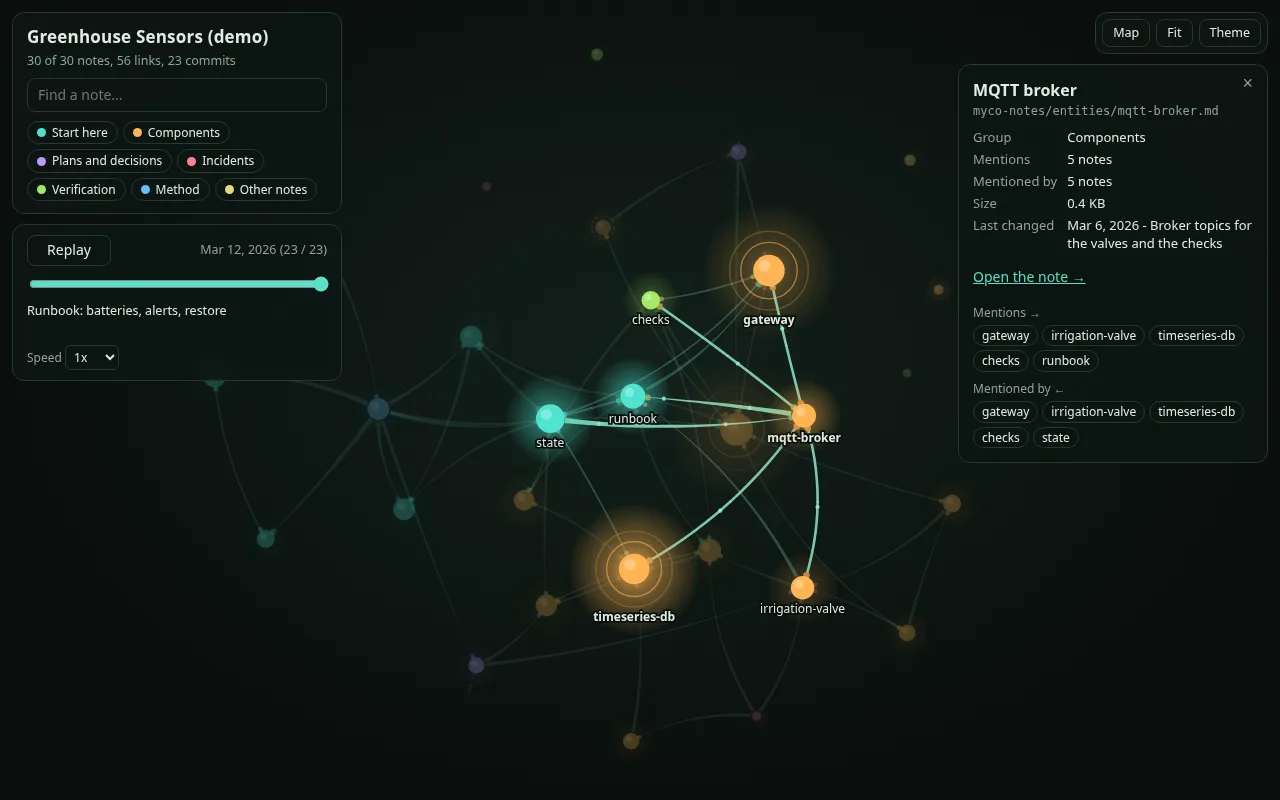
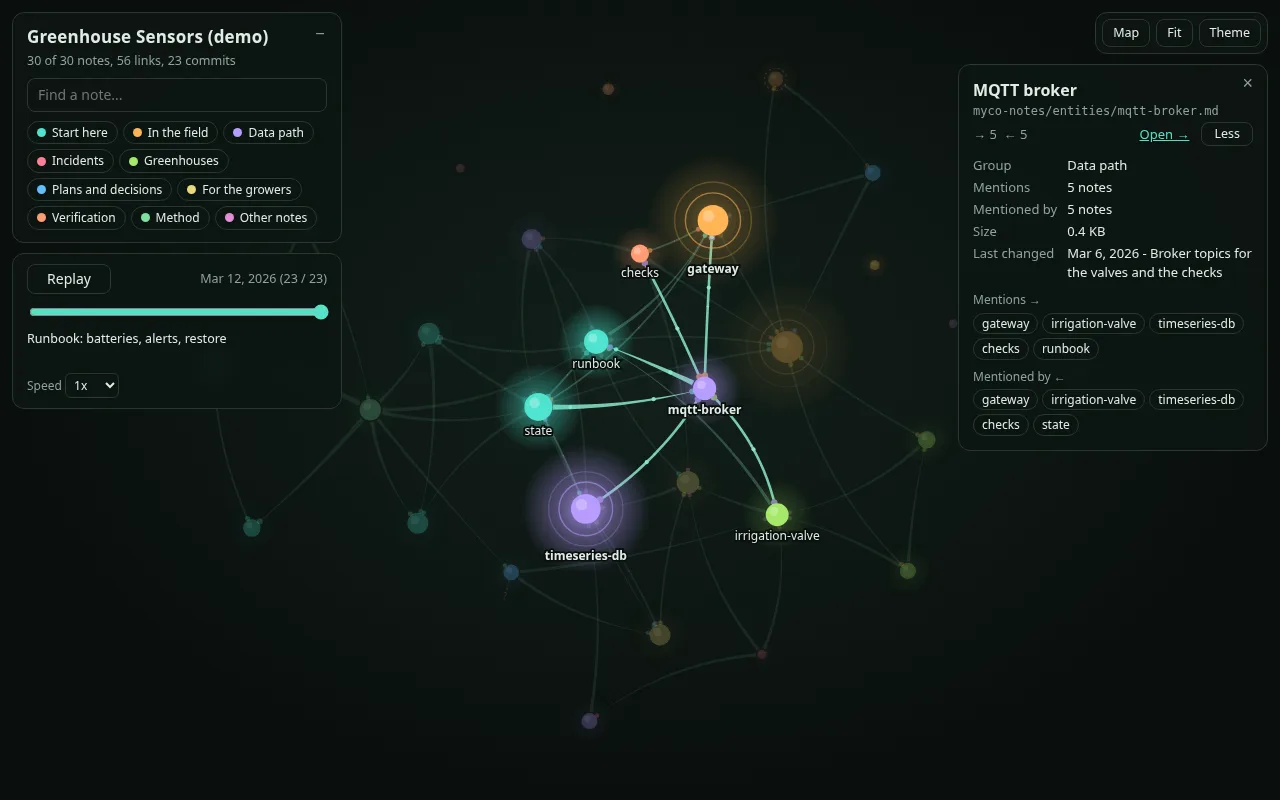
0.12.2: colourful demo, README images re-recorded

diff --git a/skills/myco-notes/tools/_myco.py b/skills/myco-notes/tools/_myco.py
@@ -4,7 +4,7 @@ import re
 import subprocess
 import sys
 
-VERSION = "0.12.1"   # the kit version these tools come from; moves with plugin.json and SKILL.md (tests check it)
+VERSION = "0.12.2"   # the kit version these tools come from; moves with plugin.json and SKILL.md (tests check it)
 
 IS_WINDOWS = os.name == "nt"
 

diff --git a/CHANGELOG.md b/CHANGELOG.md
@@ -1,5 +1,10 @@
 # Changelog
 
+## 0.12.2
+README and demo only; the skill and tools are unchanged apart from the version number.
+- **A more colourful demo**: the demo tree's components are split into four groups (in the field, data path, greenhouses, for the growers), so the map uses ten colours instead of mostly one. The live demo is rebuilt with them.
+- **README images re-recorded**: the replay clip and the four screenshots show the current mycelium view and the new groups.
+
 ## 0.12.1
 Fixes from a second outside review (method 2.5: sections 8.2 and 8.4).
 - **Links in a mirror are never followed**: a symbolic link or Windows junction found inside the mirror is removed and replaced, not entered, and a folder that resolves outside the mirror is refused; before, a junction placed in the mirror could make a sync delete and write files outside it. Tested with a junction on Windows and a symlink elsewhere.

diff --git a/skills/myco-notes/SKILL.md b/skills/myco-notes/SKILL.md
@@ -4,7 +4,7 @@ description: Keep a project's knowledge in a versioned, secret-free, cross-refer
 license: Apache-2.0
 compatibility: Needs git and python 3.8+ (Linux, macOS, Windows). rsync and ssh only for a remote-host mirror. Agent-neutral; any coding agent that reads SKILL.md or AGENTS.md can use it.
 metadata:
-  version: "0.12.1"
+  version: "0.12.2"
 ---
 
 # Myco Notes
